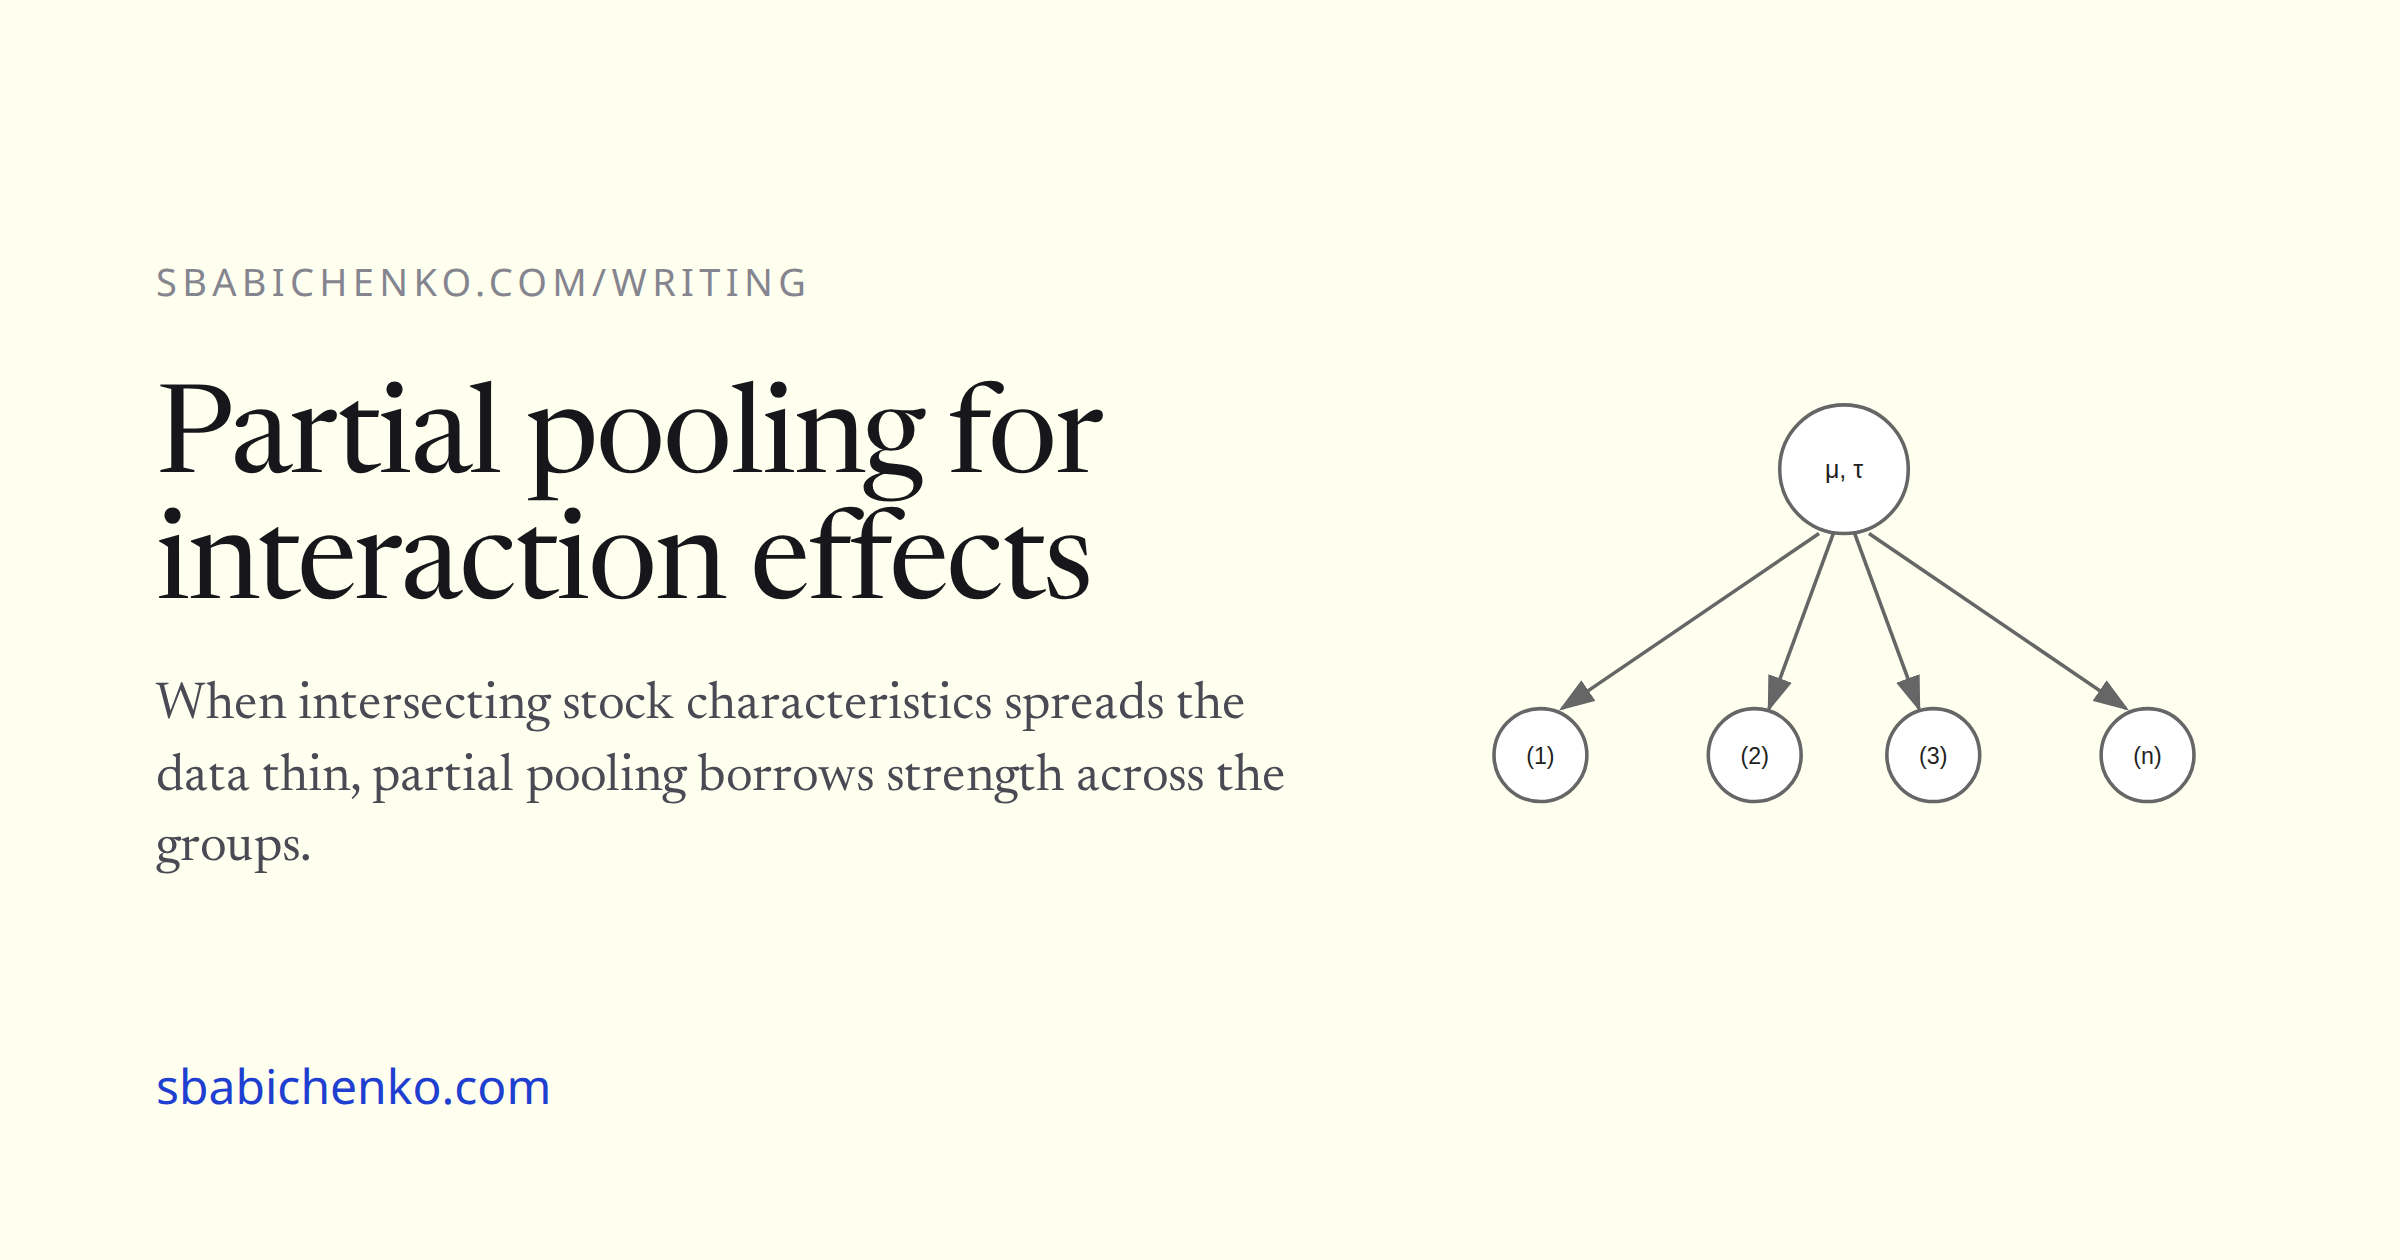
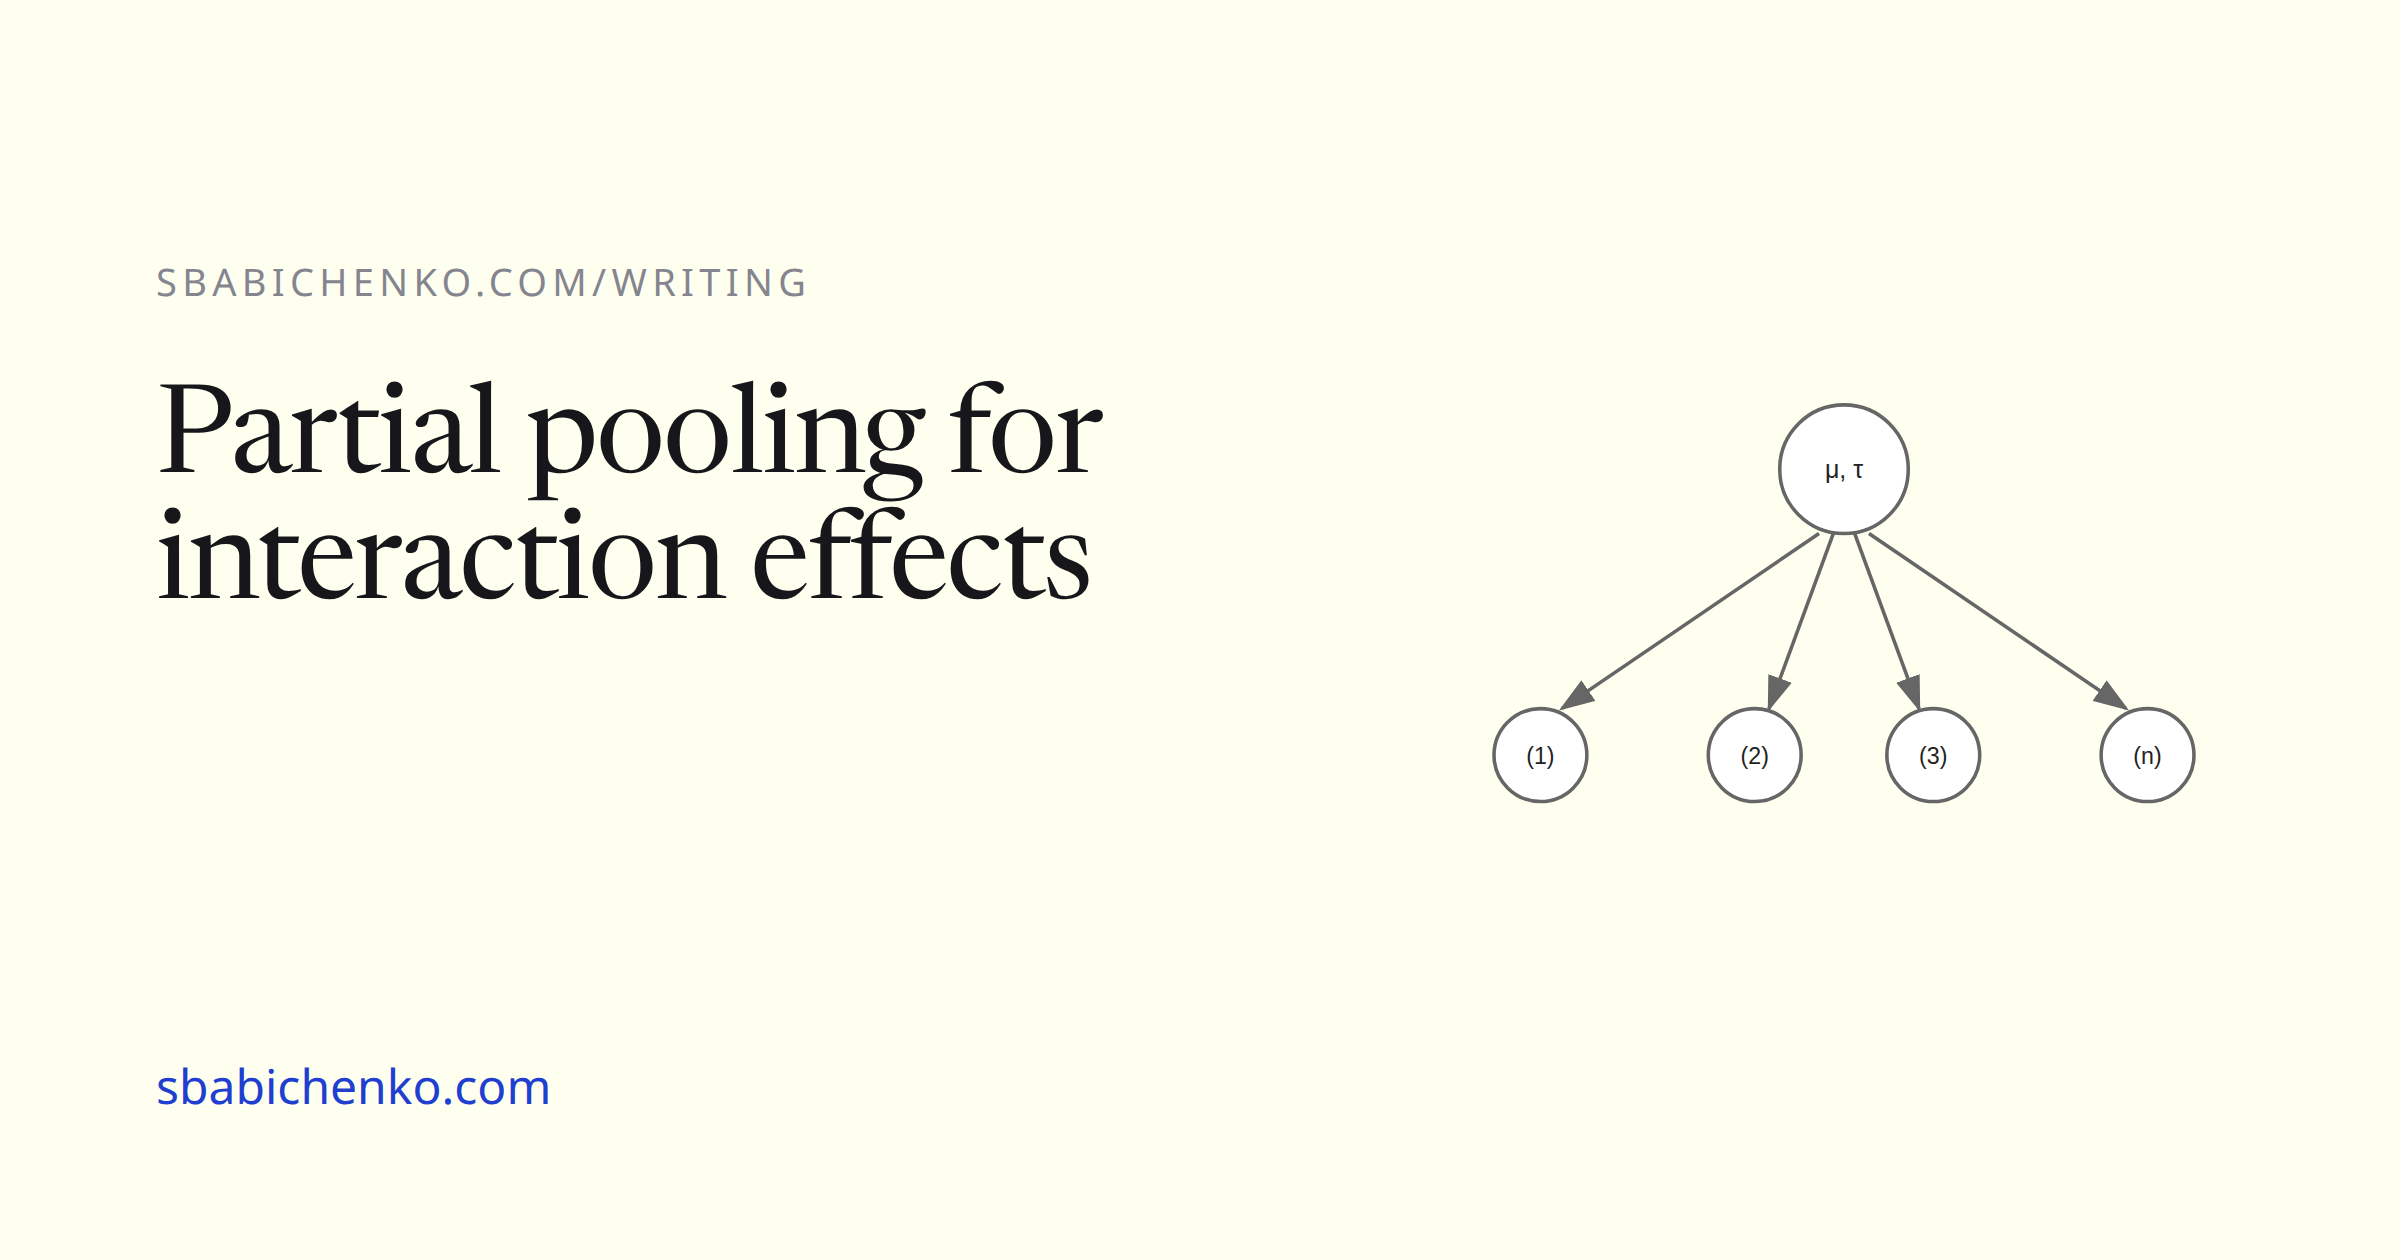
Plainer copy: cut the 404 joke, footer and card asides; poke hint mentions the background

Changed region(s): [[0.0625, 0.5262, 0.5312, 0.681]]

diff --git a/templates/projects.html b/templates/projects.html
@@ -33,7 +33,7 @@
         {% endif %}
         <p class="starthere">New here? Start with <a href="{{ get_url(path='dissertation/idea/') }}">the noise-state, explained</a>,
           or <a href="{{ get_url(path='noisestate/') }}">solve a game</a> in your browser.</p>
-        <p class="poke" aria-hidden="true">click the mesh to poke it</p>
+        <p class="poke" aria-hidden="true">click the mesh in the background to poke it</p>
         {%- set formula = load_data(path="data/formula.json") %}
         <a class="motif" href="{{ get_url(path='dissertation/idea/') }}"
            aria-label="The noise-state: player i's estimate, at time t, of the primitive shock W at an earlier time u, given everything player i knows">
@@ -55,7 +55,7 @@
               <h3>Games played through noise</h3>
               <p>Actions move the state, the state sets what others observe, and what they observe sets
                 their next actions. My dissertation keeps that loop intact by tracking beliefs about the
-                primitive shocks. Move a slider and the equilibrium is solved again, here, in about a second.</p>
+                primitive shocks. Move a slider and the equilibrium is solved again in about a second.</p>
               <ul><li>six games</li><li>shock responses</li><li>sample paths</li><li>parameter sweeps</li></ul>
               <span class="go">Open the explorer <span class="arrow">&rarr;</span></span>
             </div>
@@ -78,8 +78,7 @@
             <div class="body">
               <h3>Two kinds of triangle, rectangles and a tree</h3>
               <p>Freeform triangles, right triangles, rectangles and a regression tree, grown on the same noisy surface
-                one greedy cut at a time, with the same number of free parameters each. No gate here: they stop when
-                the page runs out of patience.</p>
+                one greedy cut at a time, with the same number of free parameters each. No gate here.</p>
               <span class="go">Open the page <span class="arrow">&rarr;</span></span>
             </div>
           </a>

diff --git a/static/css/home.css b/static/css/home.css
@@ -181,7 +181,7 @@
 .home .hero .poke { position: absolute; right: 0; bottom: 0.6rem; margin: 0; font: 0.74rem ui-monospace, Menlo, monospace;
   color: var(--ink-3); letter-spacing: 0.02em; opacity: 0; transition: opacity 0.6s; pointer-events: none; }
 .home .hero:hover .poke { opacity: 0.85; }
-@media (hover: none) { .home .hero .poke { opacity: 0.7; } .home .hero .poke::before { content: "tap"; } .home .hero .poke { font-size: 0; } .home .hero .poke::after { content: " the mesh to poke it"; font-size: 0.74rem; } .home .hero .poke::before { font-size: 0.74rem; } }
+@media (hover: none) { .home .hero .poke { opacity: 0.7; } .home .hero .poke::before { content: "tap"; } .home .hero .poke { font-size: 0; } .home .hero .poke::after { content: " the mesh in the background to poke it"; font-size: 0.74rem; } .home .hero .poke::before { font-size: 0.74rem; } }
 @media (max-width: 480px) { .home .eyebrow { letter-spacing: 0.07em; font-size: 0.68rem; } }
 
 /* the noise-state, set in the hero as a motif; static/js/formula.js writes it on */

diff --git a/templates/writing.html b/templates/writing.html
@@ -34,7 +34,7 @@
           <path class="ln faint" d="M198,52 L304,51 M198,66 L304,65 M198,80 L304,79 M198,94 L304,93 M198,108 L304,107" />
           <g transform="translate(236 118) rotate(-28)"><rect x="0" y="-5" width="86" height="10" rx="1.5" class="wood" /><path d="M0,-5 L-16,0 L0,5 Z" class="tip" /><path d="M-11,-1.6 L-16,0 L-11,1.6 Z" class="lead" /><rect x="86" y="-5" width="7" height="10" class="band" /><rect x="93" y="-5" width="9" height="10" rx="3" class="eraser" /></g>
         </svg>
-        <figcaption>{% if paginator.pages | length == 1 %}One piece so far. The next one is on the right-hand page.{% else %}More are on the right-hand page.{% endif %}</figcaption>
+        <figcaption>{% if paginator.pages | length == 1 %}One piece so far.{% endif %}</figcaption>
       </figure>
       {%- endif %}
       {% if paginator.number_pagers > 1 %}

diff --git a/templates/mesh.html b/templates/mesh.html
@@ -60,7 +60,7 @@
 
       <div id="statusbar">
         <span class="chip idle" id="chip">Ready</span>
-        <svg class="glass" id="glass" viewBox="0 0 14 20" aria-hidden="true"><title>The page's patience</title>
+        <svg class="glass" id="glass" viewBox="0 0 14 20" aria-hidden="true"><title>Step budget left</title>
           <clipPath id="glass-top"><path d="M2.6,2 H11.4 L7,10 Z" /></clipPath><clipPath id="glass-bot"><path d="M7,10 L11.4,18 H2.6 Z" /></clipPath>
           <rect class="sand" id="sand-top" clip-path="url(#glass-top)" x="0" y="2" width="14" height="8" />
           <rect class="sand" id="sand-bot" clip-path="url(#glass-bot)" x="0" y="18" width="14" height="0" />

diff --git a/templates/gate.html b/templates/gate.html
@@ -96,7 +96,7 @@
           the odds you pick, plus a normal effect per coin on the log-odds, with the standard deviation on the slider
           (0.25 to start). Set it to zero and the coins are plain binomial.</p>
         <p>The <a href="{{ get_url(path='mesh/') }}">growing-mesh page</a> grows the same geometries by a simple greedy rule with no gate: freeform
-          triangles, right triangles, rectangles and a tree, grown greedily side by side. The right triangles there are
+          triangles, right triangles, rectangles and a tree. The right triangles there are
           this estimator's geometry.</p>
       </div>
       <details class="cite">

diff --git a/static/js/tally.js b/static/js/tally.js
@@ -12,7 +12,7 @@
     if (!el) return;
     const t = read(), parts = [];
     for (const k of ["solve", "fit", "grow"]) if (t[k]) parts.push(`<b>${t[k].toLocaleString()}</b> ${words[k][t[k] === 1 ? 0 : 1]}`);
-    el.innerHTML = parts.length ? `This visit, on your machine: ${parts.join(", ")}.` : "Nothing computed yet this visit. Your machine is idle, for now.";
+    el.innerHTML = parts.length ? `This visit, on your machine: ${parts.join(", ")}.` : "Nothing computed yet this visit.";
   }
   window.siteTally = function (kind, n) {
     const t = read(); t[kind] = (t[kind] || 0) + (n || 1); write(t); render();

diff --git a/tools/make_og.js b/tools/make_og.js
@@ -44,7 +44,7 @@ const CARDS = [
   { out: "og-partial-pooling.png", art: "image", fit: "contain", src: "/images/card-partial-pooling.svg",
     eyebrow: "sbabichenko.com/writing",
     title: "Partial pooling for interaction effects",
-    sub: "When intersecting stock characteristics spreads the data thin, partial pooling borrows strength across the groups." },
+    sub: "" },
 ];
 
 const page = (c) => `<!doctype html><html><head><meta charset="utf-8">

diff --git a/templates/404.html b/templates/404.html
@@ -12,7 +12,7 @@
         <canvas id="heroink" data-mode="nothing" aria-hidden="true"></canvas>
         <p class="eyebrow">404</p>
         <h1>Nothing here</h1>
-        <p class="lede">No page at this address. The gate checked every candidate and admitted none of them.</p>
+        <p class="lede">No page at this address.</p>
         <p class="lede"><a class="back" href="{{ get_url(path='') }}">Back to the front &rarr;</a></p>
       </section>
 
